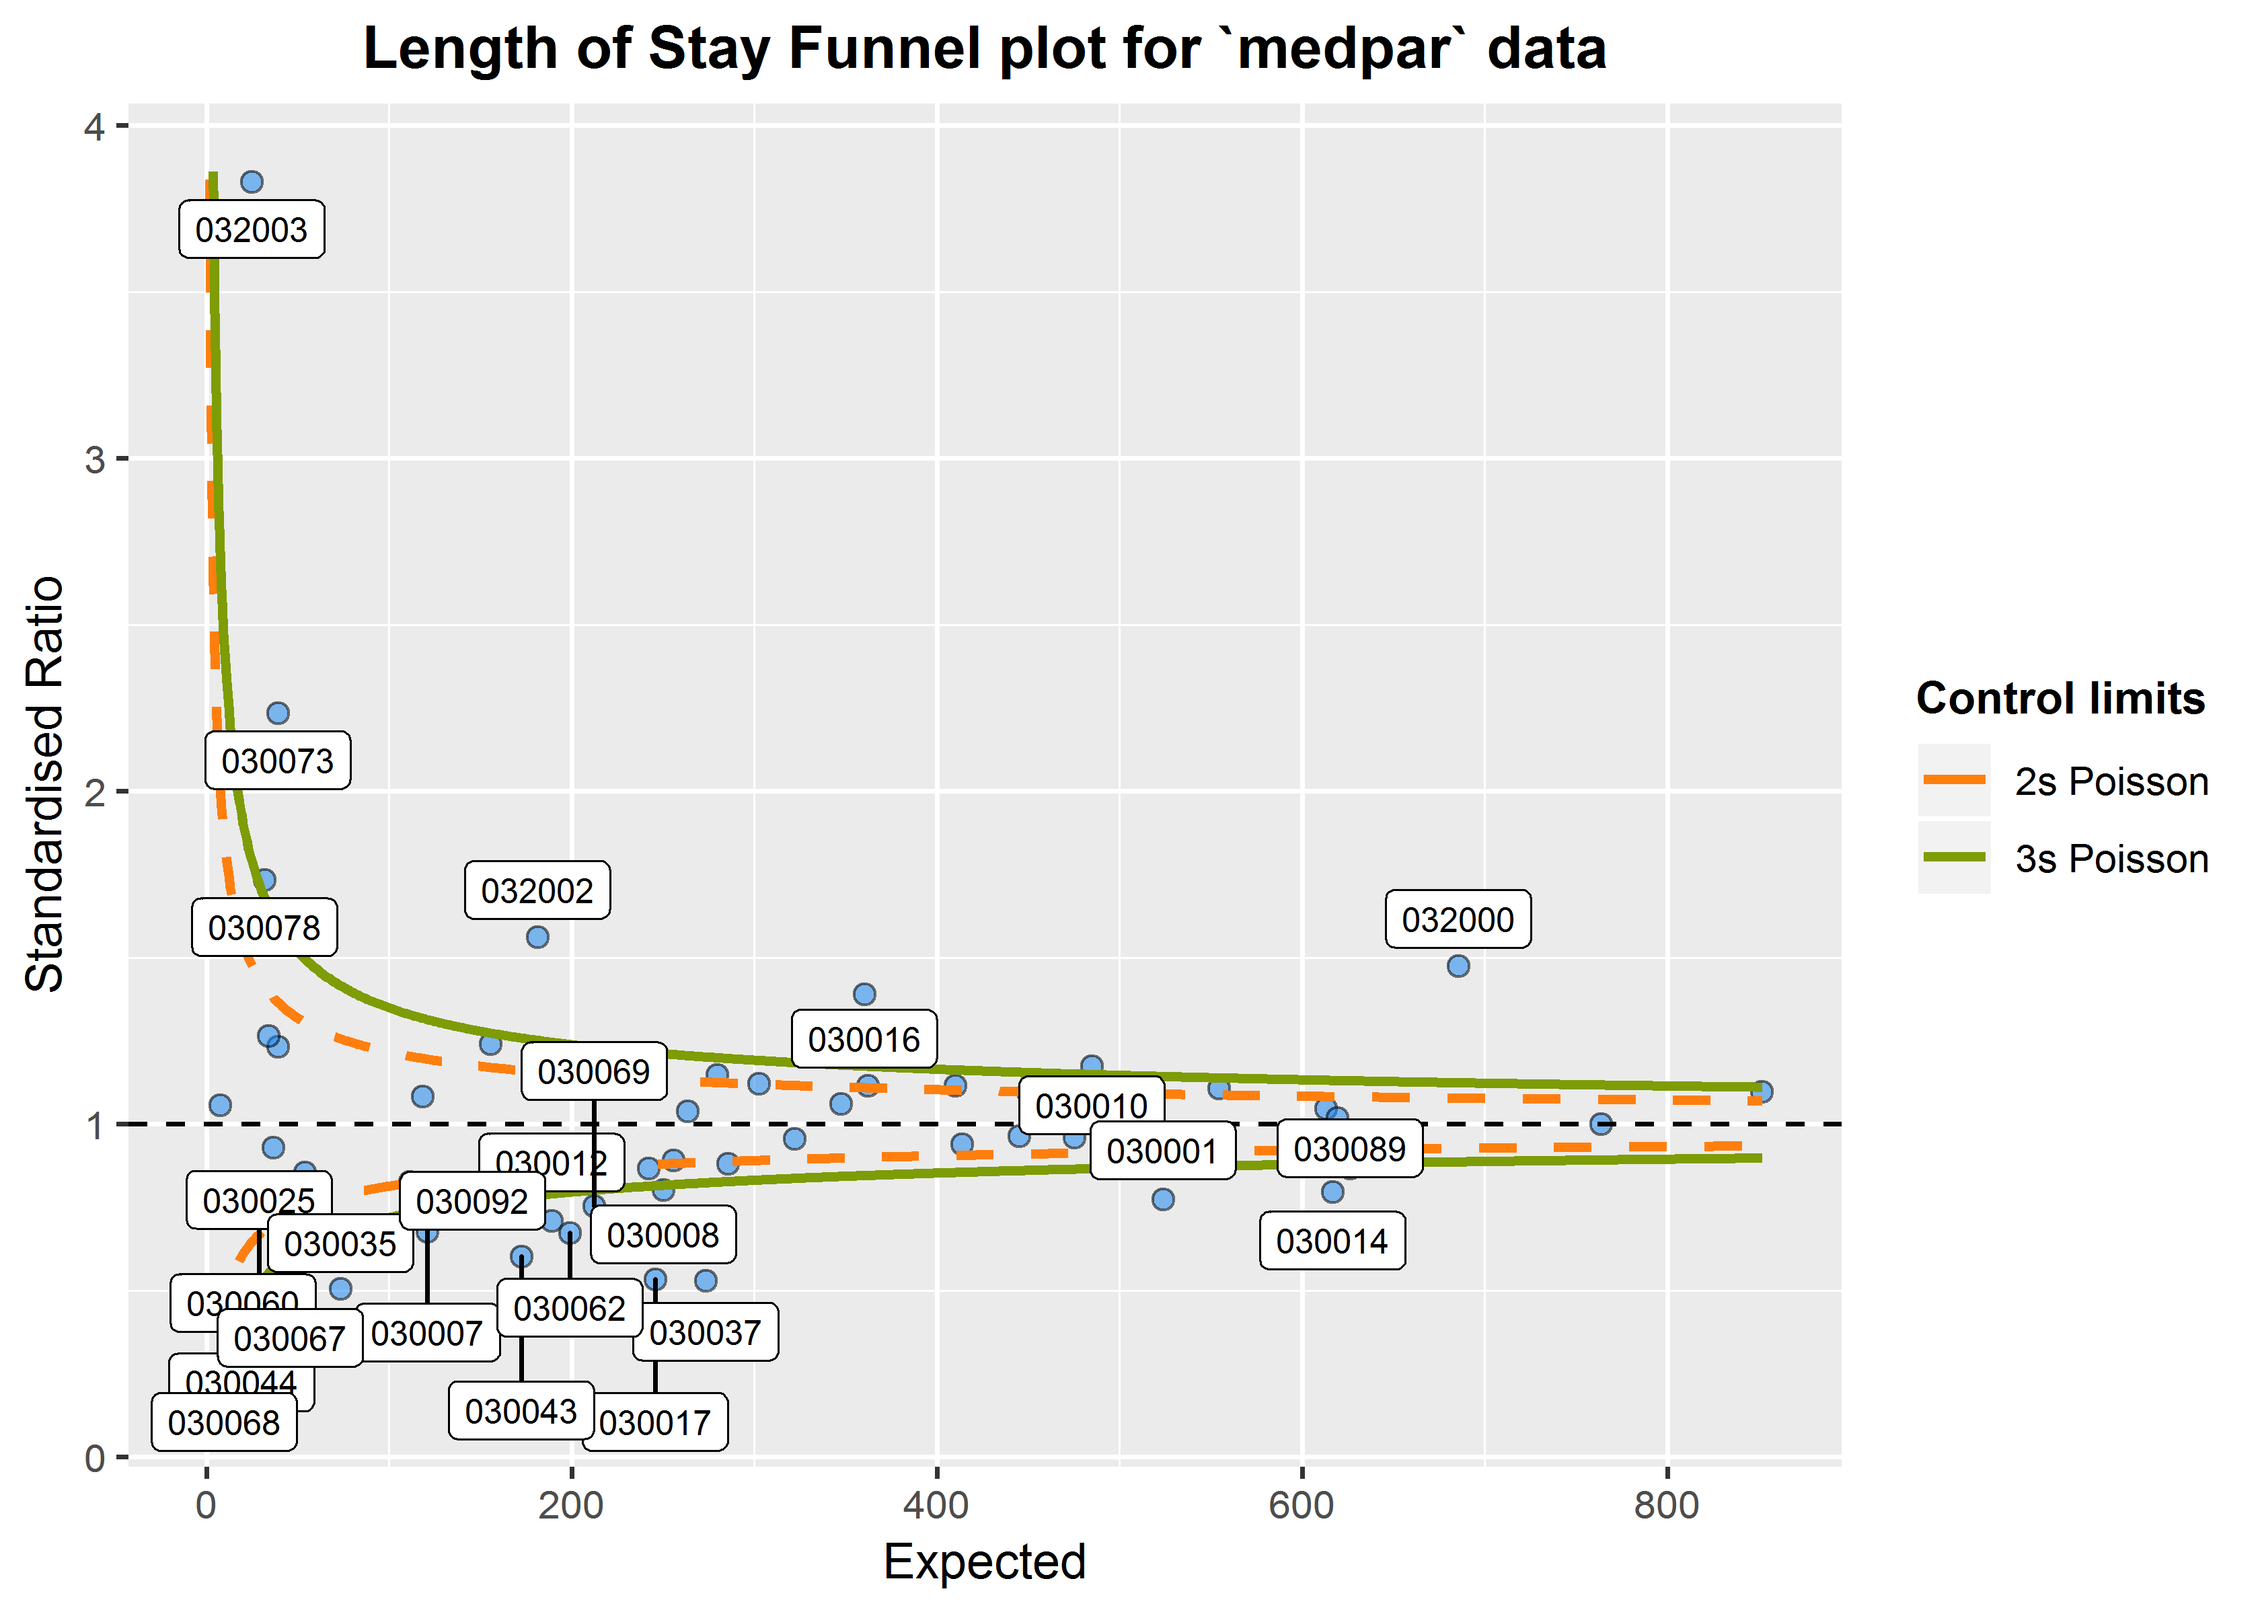
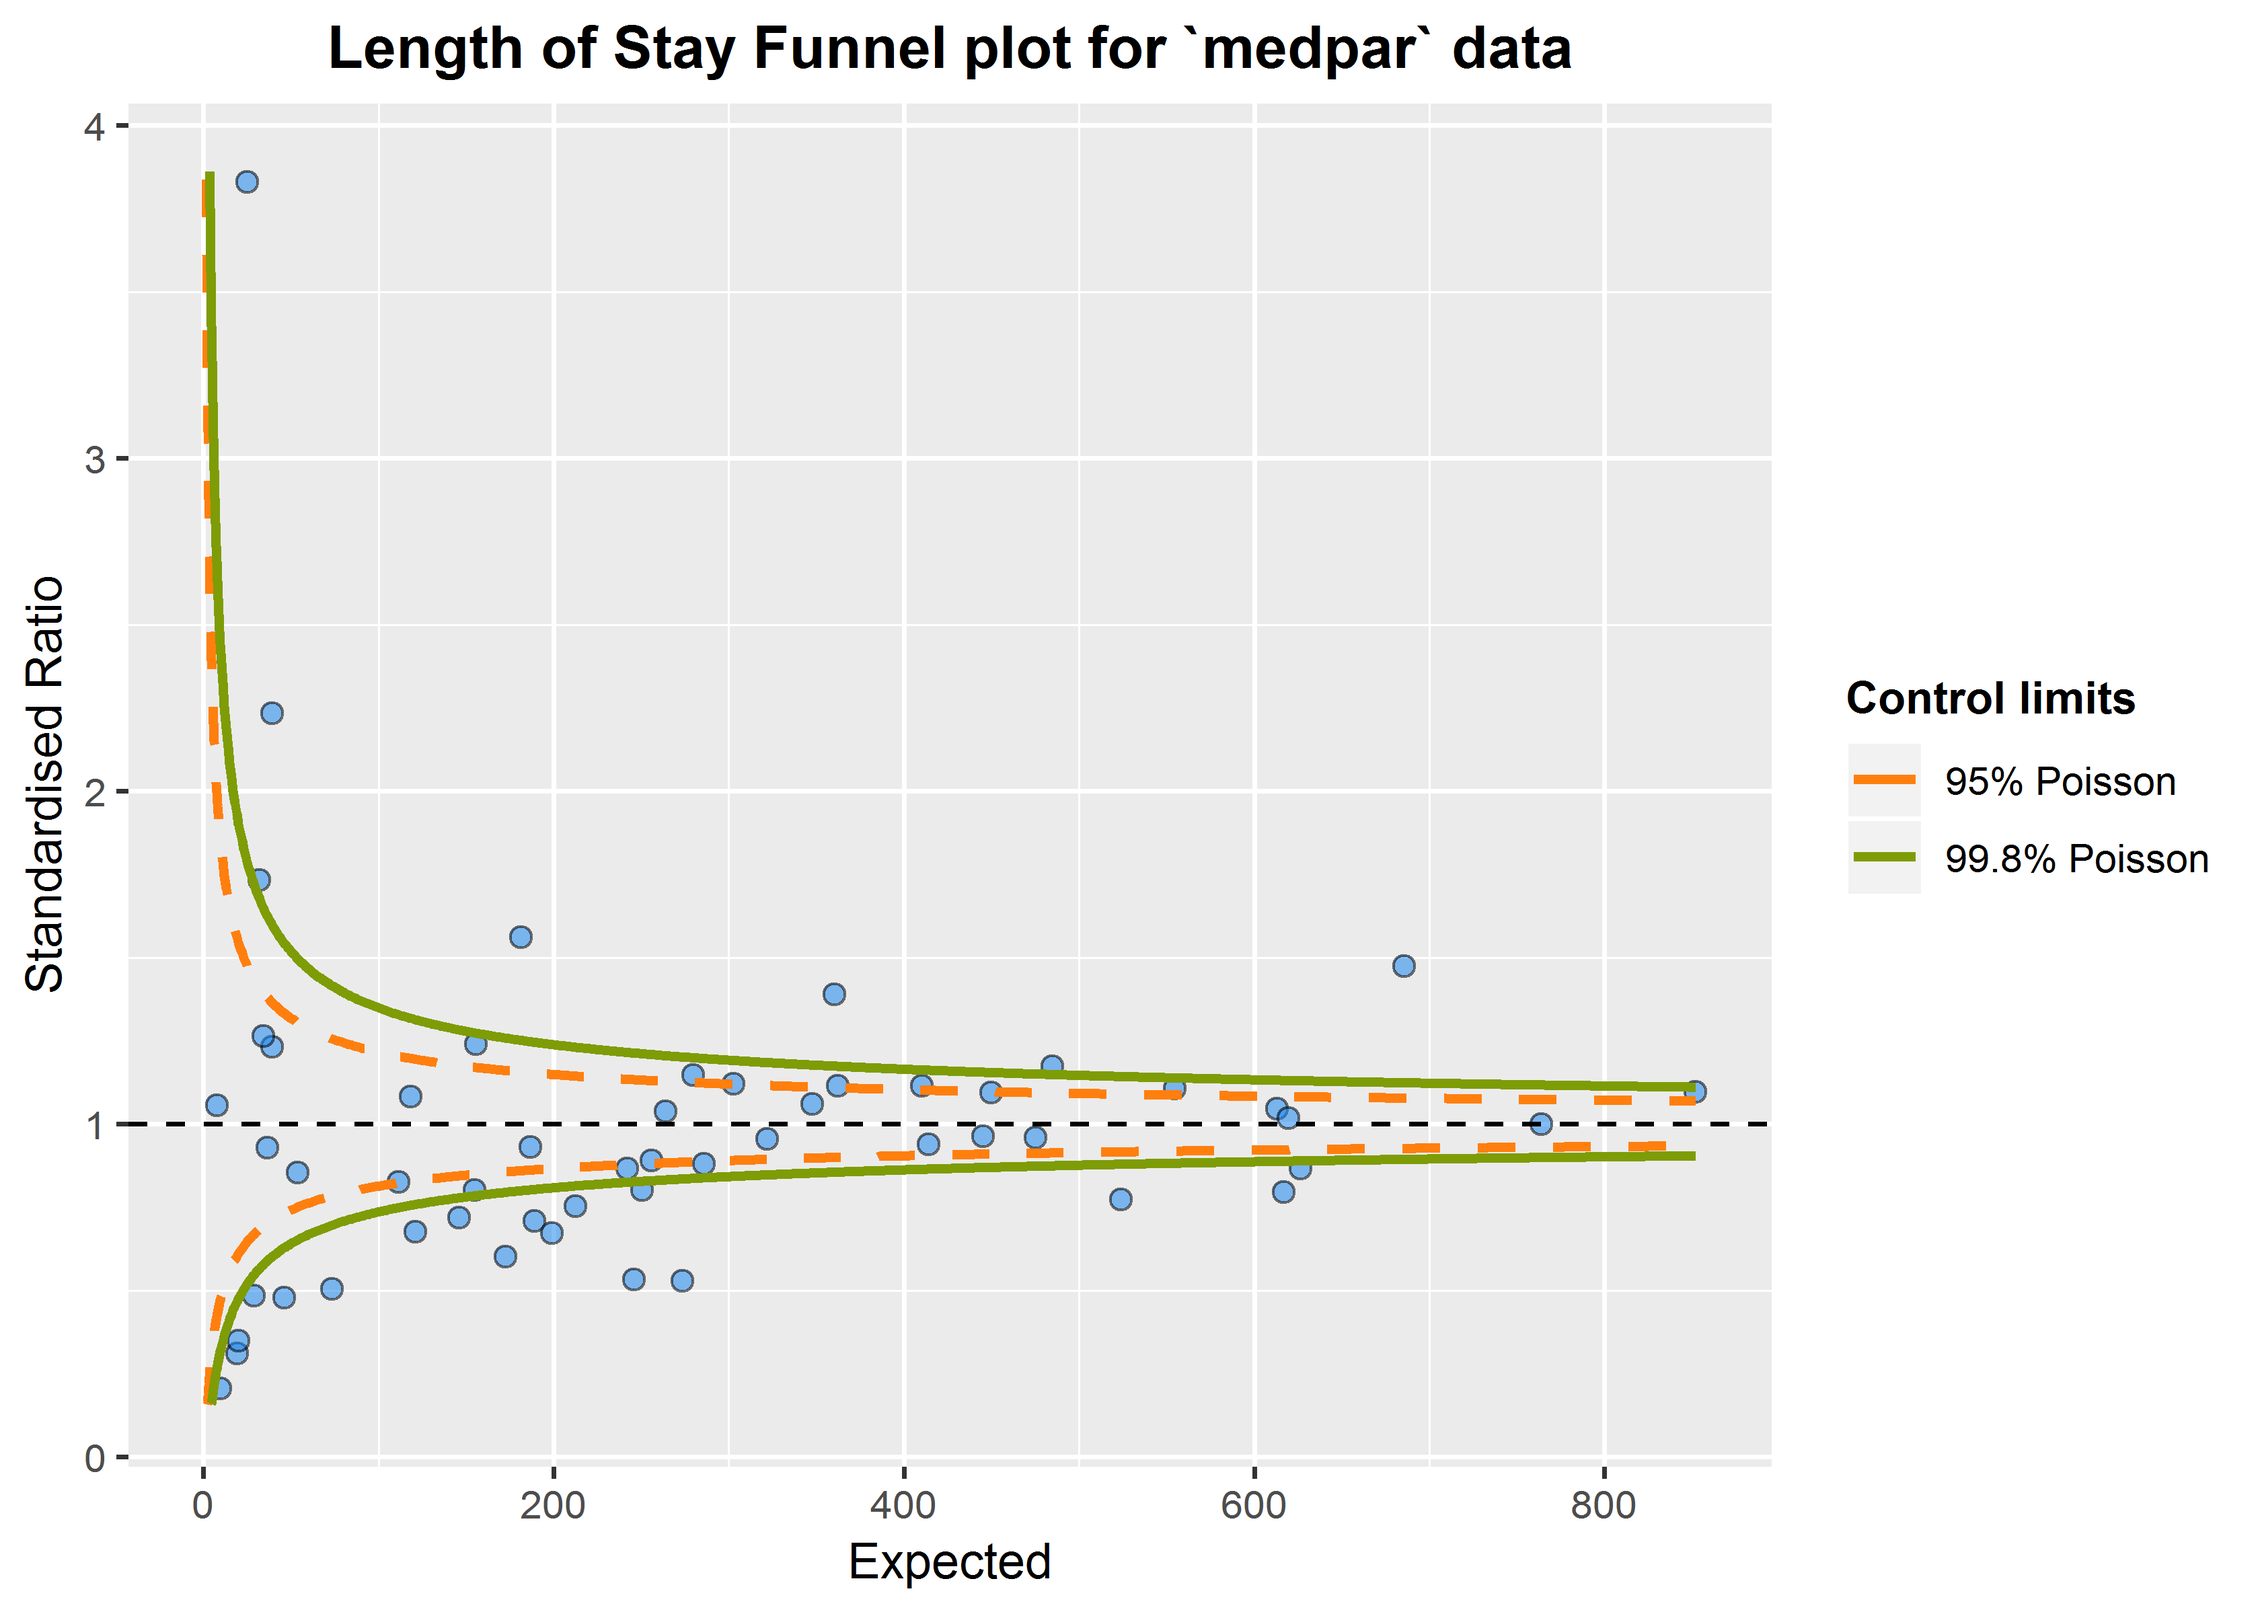
UPdated to 95% and 99.8% parlance, from 2 or 3 sigma.  changed label outlier to this too.  Updated README and re-knitterd for typos.

diff --git a/README.md b/README.md
@@ -43,7 +43,7 @@ devtools::install_github("https://github.com/chrismainey/CMFunnels")
 We will load the `medpar` dataset from Hilbe’s `COUNT` package. This is
 based on 1991 Medicare files for the state of Arizona *(Hilbe, Joseph M
 (2014), Modeling Count Data, Cambridge University Press)*. We will first
-load the data and build a simple predicitive model using a Poisson GLM.
+load the data and build a simple predictive model using a Poisson GLM.
 
 ``` r
 library(CMFunnels)
@@ -114,9 +114,9 @@ my_plot[3]
 <br><br>
 
 That looks like too many outliers\! There is more variation in our data
-than we would expect, and this is referrred to as: **overdispersion**.
-So lets check for it: <br> The following ratio should be 1 if our data
-are conforming to Poisson distribution assumption (conditional mean =
+than we would expect, and this is referred to as: **overdispersion**. So
+lets check for it: <br> The following ratio should be 1 if our data are
+conforming to Poisson distribution assumption (conditional mean =
 variance). If it is greater than 1, we have overdispersion:
 
 ``` r
@@ -127,7 +127,7 @@ sum(mod$weights * mod$residuals^2)/mod$df.residual
 
 This suggest the variance is 6.24 times the condition mean, and
 definitely overdispersed. This is a huge topic, but applying
-overdispersed limits using either SHMI or Spieglehalter methods adjust
+overdispersed limits using either SHMI or Spiegelhalter methods adjust
 for this by inflating the limits:
 
 ``` r
